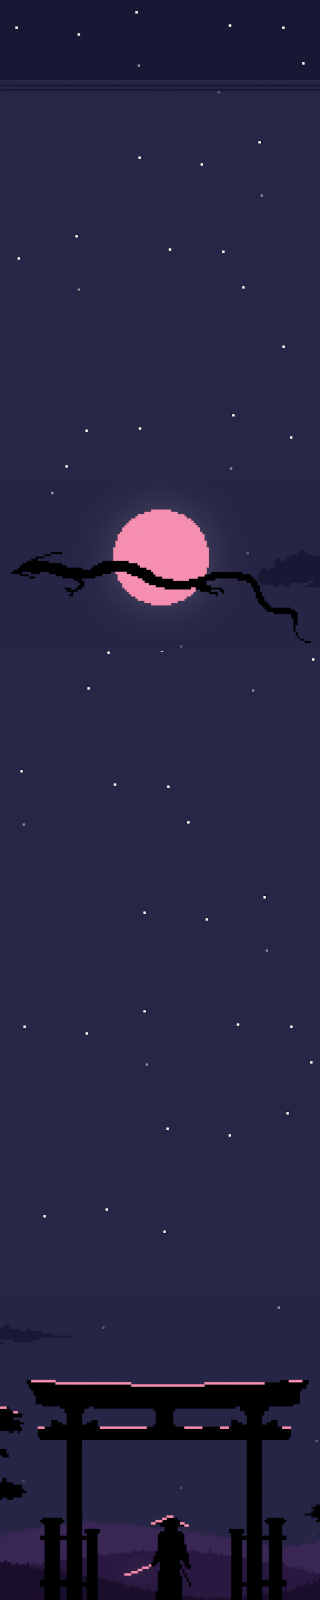
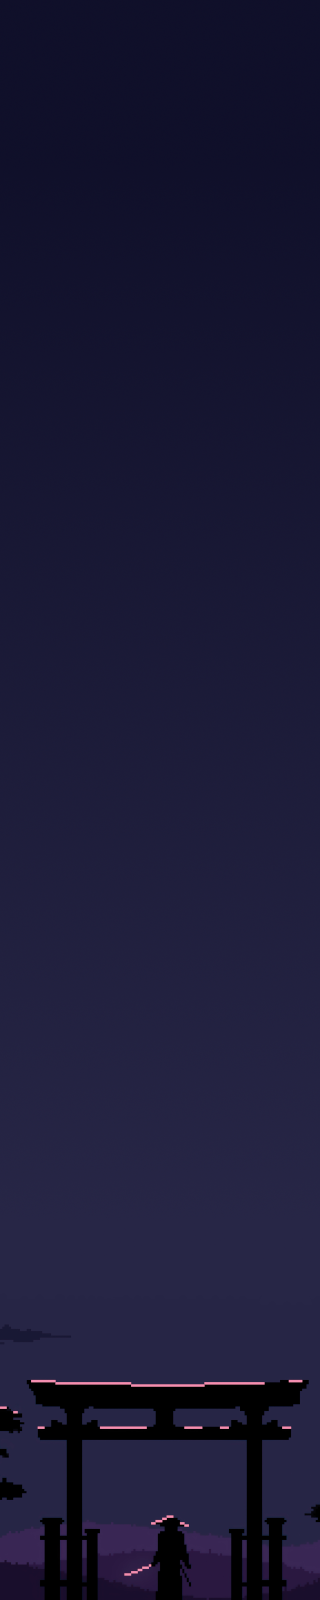
Updated level design

Changed region(s): [[0.0, 0.0312, 1.0, 0.2188], [0.0625, 0.2812, 0.8125, 0.4062], [0.8125, 0.375, 0.9375, 0.4062]]

diff --git a/src/gamestates/Playing.java b/src/gamestates/Playing.java
@@ -32,7 +32,7 @@ public class Playing extends State implements StateMethods {
     private int topBorder = (int) (0.8 * Game.GAME_HEIGHT);
     private int maxLevelOffsetY;
 
-    private BufferedImage backgroundImg, bigCloud, smallCloud;
+    private BufferedImage backgroundImg, bigCloud, smallCloud, stars, sun;
     private int[] smallCloudPos;
     private Random random = new Random();
 
@@ -42,6 +42,8 @@ public class Playing extends State implements StateMethods {
         backgroundImg = LoadSave.GetSpriteAtlas(LoadSave.PLAYING_BACKGROUND_IMAGE);
         bigCloud = LoadSave.GetSpriteAtlas(LoadSave.BIG_CLOUDS);
         smallCloud = LoadSave.GetSpriteAtlas(LoadSave.SMALL_CLOUDS);
+        stars = LoadSave.GetSpriteAtlas(LoadSave.STARS);
+        sun = LoadSave.GetSpriteAtlas(LoadSave.SUN);
         smallCloudPos = new int[8];
         for (int i = 0; i < smallCloudPos.length; i++) {
             smallCloudPos[i] = (int) (90 * SCALE) + random.nextInt((int) (100 * SCALE));
@@ -123,7 +125,14 @@ public class Playing extends State implements StateMethods {
         g.drawImage(backgroundImg, TILES_SIZE, 0 - yLevelOffset,
                 (int) (backgroundImg.getWidth() * Game.SCALE) - 2 * TILES_SIZE,
                 (int) (backgroundImg.getHeight() * Game.SCALE) - TILES_SIZE, null);
-
+        g.drawImage(sun,
+                TILES_SIZE * 2, 0 - (int) (yLevelOffset * 0.2),
+                (int) (sun.getWidth() * Game.SCALE) - 4
+                        * TILES_SIZE,
+                (int) (sun.getHeight() * Game.SCALE) - 6 * TILES_SIZE, null);
+        g.drawImage(stars, TILES_SIZE, 0 - (int) (yLevelOffset * 0.3),
+                (int) (stars.getWidth() * Game.SCALE) - 2 * TILES_SIZE,
+                (int) (stars.getHeight() * Game.SCALE) - TILES_SIZE, null);
         drawClouds(g);
         levelManager.draw(g, yLevelOffset);
         if (!completed) {

diff --git a/src/utils/LoadSave.java b/src/utils/LoadSave.java
@@ -26,6 +26,9 @@ public class LoadSave {
     public static final String DOOR = "door-opening.png";
     public static final String COMPLETED_IMAGE = "completed_sprite.png";
 
+    public static final String STARS = "stars.png";
+    public static final String SUN = "sun.png";
+
     public static BufferedImage GetSpriteAtlas(String fileName) {
         BufferedImage img = null;
         InputStream is = LoadSave.class.getResourceAsStream("/" + fileName);
